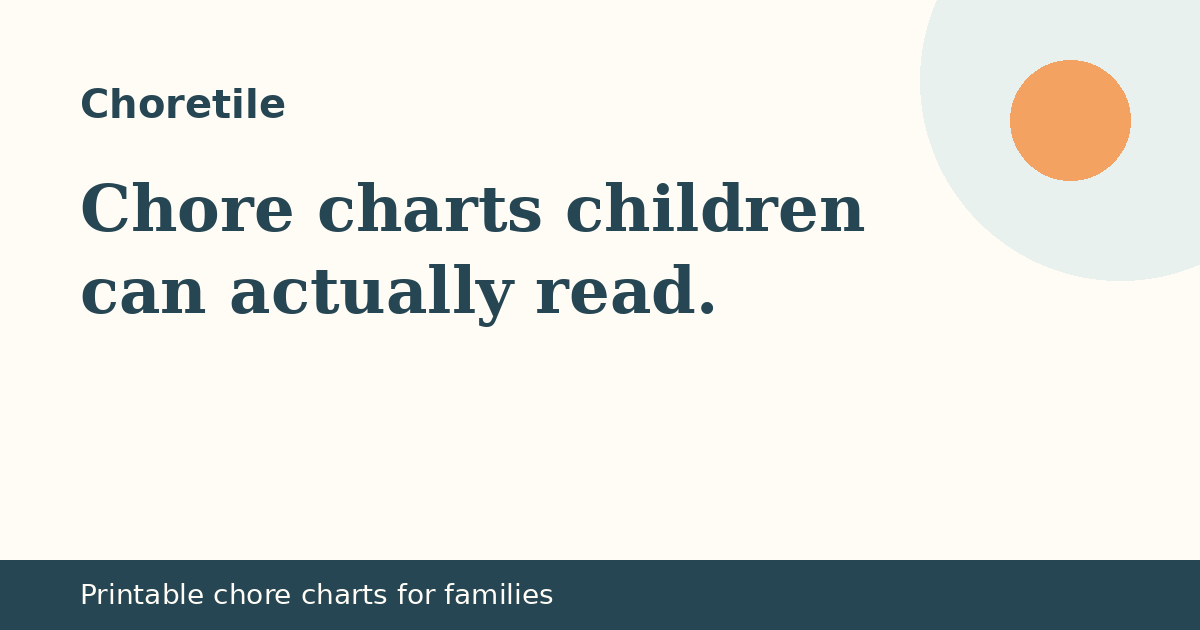
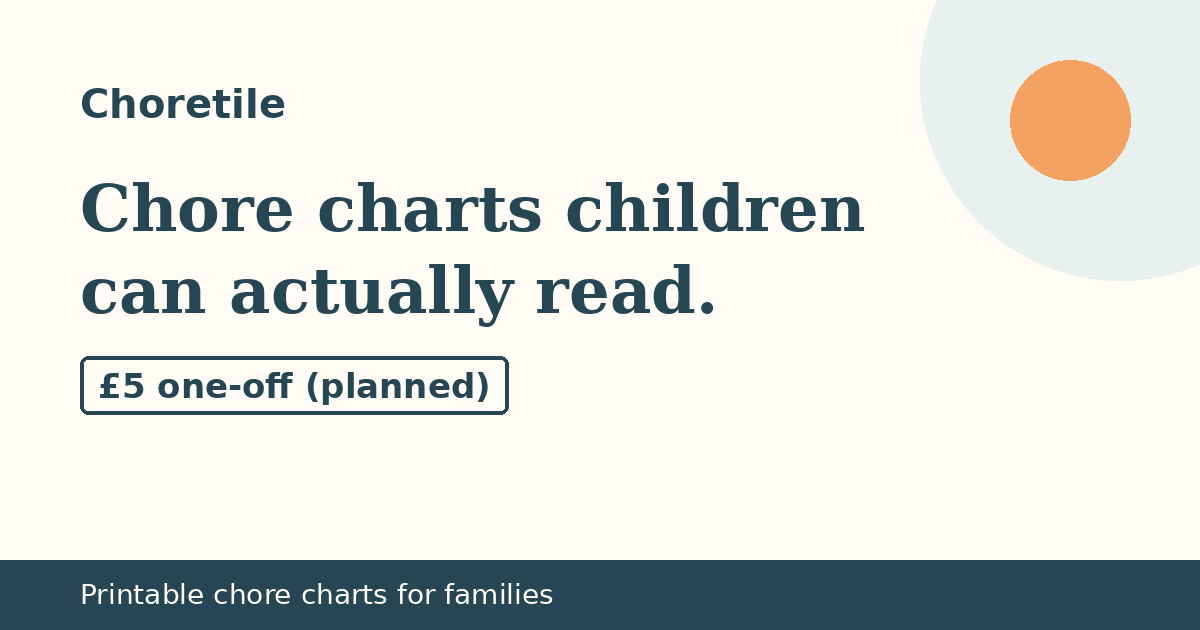
Publish site 2026-10-21 08:27 BST

Changed region(s): [[0.0617, 0.5429, 0.4317, 0.6635]]

diff --git a/index.html b/index.html
@@ -3,7 +3,7 @@
 <head>
 <meta charset="utf-8">
 <meta name="viewport" content="width=device-width, initial-scale=1">
-<meta http-equiv="Content-Security-Policy" content="default-src 'self'; img-src 'self' data: https://localreplyloop.goatcounter.com; style-src 'self'; script-src 'self'; font-src 'self'; connect-src 'self' https://formsubmit.co; form-action 'self'; base-uri 'self'; object-src 'none'">
+<meta http-equiv="Content-Security-Policy" content="default-src 'self'; img-src 'self' data: https://localreplyloop.goatcounter.com; style-src 'self'; script-src 'self'; font-src 'self'; connect-src 'self'; form-action 'self'; base-uri 'self'; object-src 'none'">
 <meta name="referrer" content="strict-origin-when-cross-origin">
 <title>Choretile: Chore charts children can actually read</title>
 <meta name="description" content="A set of printable chore charts with picture tiles for younger children, weekly sheets for older ones, and a blank tile template.">
@@ -21,21 +21,14 @@
 </head>
 <body>
 <a class="skip" href="#main">Skip to content</a>
-<header class="band"><div class="wrap top"><a class="brand" href="./"><svg viewBox="0 0 64 64" aria-hidden="true" width="34" height="34"><rect width="64" height="64" rx="4" fill="#F4A261"/><text x="32" y="43" text-anchor="middle" font-family="Georgia, serif" font-weight="700" font-size="30" fill="#111111">C</text><circle cx="50" cy="50" r="6" fill="#FFFCF5"/></svg>Choretile</a><nav aria-label="Primary"><a href="#how">How it works</a><a href="#faq">Questions</a><a href="#contact">Contact</a></nav></div><section class="hero"><div class="wrap"><div><span class="draft">Draft: not yet available. Enquiries welcome.</span><br><span class="eyebrow">Digital product · draft · Printable chore charts for families</span><h1>Chore charts children can actually read.</h1><p class="lede">Picture tiles for children who can&#x27;t read yet, simple weekly sheets for older ones, and blank tiles so you can add your own jobs. Print at home on A4.</p><div class="ctas"><a class="btn" href="#contact" data-cta="hero">Tell me when it&#x27;s ready</a><a class="btn ghost" href="#faq" data-cta="hero-secondary">Questions</a></div></div><div class="art"><svg viewBox="0 0 400 400" role="img" aria-label="Decorative pattern" class="motif" preserveAspectRatio="xMidYMid slice"><rect x="0" y="40" width="30" height="240" rx="15" fill="#E9F1EE"/><rect x="46" y="100" width="30" height="220" rx="15" fill="#FFFCF5"/><rect x="92" y="130" width="30" height="200" rx="15" fill="#F4A261"/><rect x="138" y="160" width="30" height="260" rx="15" fill="#FFFCF5"/><rect x="184" y="160" width="30" height="220" rx="15" fill="#E9F1EE"/><rect x="230" y="100" width="30" height="260" rx="15" fill="#FFFCF5"/><rect x="276" y="130" width="30" height="220" rx="15" fill="#F4A261"/><rect x="322" y="70" width="30" height="260" rx="15" fill="#FFFCF5"/><rect x="368" y="40" width="30" height="220" rx="15" fill="#E9F1EE"/></svg></div></div></section></header>
+<header class="band"><div class="wrap top"><a class="brand" href="./"><svg viewBox="0 0 64 64" aria-hidden="true" width="34" height="34"><rect width="64" height="64" rx="4" fill="#F4A261"/><text x="32" y="43" text-anchor="middle" font-family="Georgia, serif" font-weight="700" font-size="30" fill="#111111">C</text><circle cx="50" cy="50" r="6" fill="#FFFCF5"/></svg>Choretile</a><nav aria-label="Primary"><a href="#how">How it works</a><a href="#faq">Questions</a><a href="#contact">Contact</a></nav></div></header>
 <main id="main">
+<div class="band"><section class="hero"><div class="wrap"><div><span class="draft">Draft: not yet available. Enquiries welcome.</span><br><span class="eyebrow">Digital product · draft · Printable chore charts for families</span><h1>Chore charts children can actually read.</h1><p class="lede">Picture tiles for children who can&#x27;t read yet, simple weekly sheets for older ones, and blank tiles so you can add your own jobs. Print at home on A4.</p><div class="ctas"><a class="btn" href="#contact" data-cta="hero">Tell me when it&#x27;s ready</a><a class="btn ghost" href="#faq" data-cta="hero-secondary">Questions</a></div></div><figure class="art"><svg viewBox="0 0 400 400" aria-hidden="true" focusable="false" class="motif"><rect x="50" y="50" width="92" height="92" rx="14" fill="#FFFCF5"/><rect x="154" y="50" width="92" height="92" rx="14" fill="#E9F1EE"/><rect x="258" y="50" width="92" height="92" rx="14" fill="#FFFCF5"/><rect x="50" y="154" width="92" height="92" rx="14" fill="#E9F1EE"/><rect x="154" y="154" width="92" height="92" rx="14" fill="#FFFCF5"/><rect x="258" y="154" width="92" height="92" rx="14" fill="#E9F1EE"/><rect x="50" y="258" width="92" height="92" rx="14" fill="#FFFCF5"/><rect x="154" y="258" width="92" height="92" rx="14" fill="#E9F1EE"/><rect x="258" y="258" width="92" height="92" rx="14" fill="#FFFCF5"/><path d="M80 70 h26 v40 l20 20 -14 14 -32 -30z" fill="#F4A261"/><circle cx="200" cy="96" r="28" fill="#F4A261"/><circle cx="200" cy="96" r="14" fill="#FFFCF5"/><path d="M305 110 c-20 -30 0 -50 0 -50 c0 0 20 20 0 50z" fill="#F4A261"/><rect x="290" y="110" width="30" height="18" rx="4" fill="#F4A261"/><rect x="70" y="186" width="52" height="26" rx="6" fill="#F4A261"/><rect x="62" y="206" width="68" height="12" rx="5" fill="#264653"/></svg><figcaption class="fine">Illustrative</figcaption></figure></div></section></div>
 <section class="tint" id="how"><div class="wrap"><span class="eyebrow">How it works</span><h2>A set of printable chore charts with picture tiles for younger children, weekly sheets for older ones, and a blank tile template.</h2><div class="steps"><div class="step"><h3>Pick a chart</h3><p>Picture tiles or weekly sheets.</p></div><div class="step"><h3>Choose jobs</h3><p>From the tile set or make your own.</p></div><div class="step"><h3>Print and stick up</h3><p>A4, colour or black and white.</p></div></div></div></section>
 <section><div class="wrap"><span class="eyebrow">Who it is for</span><h2>For parents of children aged 4 to 12.</h2><div class="points"><div class="point"><h3>Picture tiles</h3><p>Readable for pre-readers.</p></div><div class="point"><h3>Blank tiles</h3><p>Add your family&#x27;s own jobs.</p></div><div class="point"><h3>Ink-friendly</h3><p>Black-and-white version included.</p></div></div></div></section>
-<section class="tint" id="price"><div class="wrap"><span class="eyebrow">Planned price</span><div class="pricebox"><p class="price">£5 one-off (planned)</p><p>This product is a draft and is not on sale yet. Nothing can be bought on this website. Register interest and we&#x27;ll email you when it&#x27;s ready.</p></div></div></section>
+<section class="tint" id="price"><div class="wrap"><span class="eyebrow">Planned price</span><div class="pricebox"><p class="price">£5 one-off (planned)</p><p>This product is a draft and is not on sale yet. Nothing can be bought on this website. You can register interest; we can’t promise a reply or a date yet.</p></div></div></section>
 <section id="faq"><div class="wrap"><span class="eyebrow">Questions</span><h2>Common questions</h2><details><summary>Is it on sale now?</summary><p>Not yet. Choretile is a draft product. Ask to hear when it&#x27;s ready.</p></details><details><summary>Does it include rewards?</summary><p>There&#x27;s a space for whatever your family agrees. No points system you have to follow.</p></details><details><summary>What paper size?</summary><p>A4.</p></details><p class="fine" style="margin-top:18px">Choretile is a set of printables. It does not offer parenting advice.</p></div></section>
-<section class="tint" id="contact"><div class="wrap contact-grid"><div><span class="eyebrow">Contact</span><h2>Register interest</h2><p>Choretile is new and run by one person. Every message is read and answered by email, usually within two working days.</p><p>Email: <a href="mailto:localreply+choretile@agentmail.to">localreply+choretile@agentmail.to</a></p></div><form class="form" data-contact data-formsubmit="localreply+choretile@agentmail.to" data-email="localreply+choretile@agentmail.to" data-subject="Choretile enquiry" novalidate>
-<div><label for="f-name">Your name</label><input id="f-name" name="name" autocomplete="name" required></div>
-<div><label for="f-email">Email</label><input id="f-email" name="email" type="email" autocomplete="email" required></div>
-<div><label for="f-plan">About</label><select id="f-plan" name="plan"><option value="Tell me when it&#x27;s ready">Tell me when it&#x27;s ready</option><option value="I have a question">I have a question</option></select></div>
-<div><label for="f-message">Message</label><textarea id="f-message" name="message"></textarea></div>
-<p class="hint">Your message goes to our inbox through FormSubmit (formsubmit.co), our form-delivery provider. If that fails, your own email app opens instead. See our <a href="privacy.html">privacy notice</a>.</p>
-<button class="btn" type="submit">Tell me when it&#x27;s ready</button>
-<p class="form-status" role="status" aria-live="polite"></p>
-</form></div></section>
+<section class="tint" id="contact"><div class="wrap contact-grid"><div><span class="eyebrow">Contact</span><h2>Register interest</h2><p>Choretile is new and run by one person. Messages go to our inbox. We can’t promise a reply or a timeframe yet.</p><p>Please don&#x27;t send us a child&#x27;s name, photo or personal details by email.</p><p>Email: <a href="mailto:localreply+choretile@agentmail.to">localreply+choretile@agentmail.to</a></p></div><div class="form contact-mail"><p><a class="btn" href="mailto:localreply+choretile@agentmail.to?subject=%5BChoretile%5D%20Enquiry" data-cta="enquire">Email Choretile</a></p><p class="hint">This opens your own email app. Nothing is sent through this website. See our <a href="privacy.html">privacy notice</a>.</p></div></div></section>
 </main><footer><div class="wrap"><p>Operated by a UK sole trader trading as Choretile. Contact: localreply+choretile@agentmail.to. Postal address available on written request.</p>
 <p><a href="privacy.html">Privacy</a><a href="terms.html">Terms</a><a href="./#contact">Contact</a></p>
 <p class="fine">Choretile is a set of printables. It does not offer parenting advice.</p></div></footer>

diff --git a/assets/site.css b/assets/site.css
@@ -1,4 +1,4 @@
-:root{--ink:#264653;--paper:#FFFCF5;--acc:#F4A261;--acc-text:#A7500C;--on-acc:#264653;--soft:#E9F1EE;--on-ink:#FFFCF5;--r:0px;--br:999px;--head:Georgia, 'Times New Roman', serif;--body:system-ui, -apple-system, 'Segoe UI', Roboto, sans-serif}
+:root{--ink:#264653;--paper:#FFFCF5;--acc:#F4A261;--acc-text:#A8510B;--on-acc:#264653;--acc-btn:#F4A261;--soft:#E9F1EE;--on-ink:#FFFCF5;--r:0px;--br:999px;--head:Georgia, 'Times New Roman', serif;--body:system-ui, -apple-system, 'Segoe UI', Roboto, sans-serif}
 *,*::before,*::after{box-sizing:border-box}html{scroll-behavior:smooth}@media (prefers-reduced-motion:reduce){html{scroll-behavior:auto}*{transition:none!important}}
 body{margin:0;font-family:var(--body);color:var(--ink);background:var(--paper);line-height:1.6;font-size:17px;-webkit-font-smoothing:antialiased}
 h1,h2,h3{font-family:var(--head);line-height:1.15;margin:0 0 .5em;letter-spacing:-.01em}h1{font-size:clamp(2.1rem,5vw,3.6rem)}h2{font-size:clamp(1.5rem,3vw,2.2rem)}h3{font-size:1.15rem}
@@ -7,11 +7,11 @@ p{margin:0 0 1em}a{color:var(--ink);text-decoration-color:var(--acc);text-underl
 :focus-visible{outline:3px solid var(--acc);outline-offset:2px}
 .top{display:flex;align-items:center;justify-content:space-between;padding:18px 0;gap:16px}.brand{display:flex;align-items:center;gap:10px;font-family:var(--head);font-weight:700;font-size:1.25rem;text-decoration:none}
 .top nav a{margin-left:18px;font-size:.95rem;text-decoration:none}.top nav a:hover{text-decoration:underline}
-.btn{display:inline-block;background:var(--acc);color:var(--on-acc);padding:13px 22px;border-radius:var(--br);font-weight:600;text-decoration:none;border:2px solid var(--acc);cursor:pointer;font:inherit;font-weight:600}
-.btn:hover{filter:brightness(.94)}.btn.ghost{background:transparent;color:var(--ink);border-color:var(--ink)}
+.btn{display:inline-block;background:var(--acc-btn);color:var(--on-acc);padding:13px 22px;border-radius:var(--br);font-weight:600;text-decoration:none;border:2px solid var(--acc-btn);cursor:pointer;font:inherit;font-weight:600}
+.btn:hover{filter:none;box-shadow:inset 0 0 0 2px currentColor}.btn.ghost{background:transparent;color:var(--ink);border-color:var(--ink)}
 .eyebrow{display:inline-block;font-size:.8rem;letter-spacing:.12em;text-transform:uppercase;font-weight:600;color:var(--acc-text);margin-bottom:12px}
 .hero{padding:48px 0 64px}.hero .lede{font-size:1.15rem;max-width:40em}.ctas{display:flex;gap:12px;flex-wrap:wrap;margin-top:22px}
-.motif{width:100%;height:auto;max-width:420px;display:block}
+.motif{width:100%;height:auto;max-width:420px;display:block}.art{margin:0}
 .draft{display:inline-block;background:var(--soft);border:1px dashed var(--ink);padding:3px 10px;border-radius:999px;font-size:.82rem;font-weight:600;margin-bottom:14px}
 section{padding:56px 0}.tint{background:var(--soft)}
 .steps{display:grid;grid-template-columns:repeat(auto-fit,minmax(220px,1fr));gap:22px;counter-reset:s}
@@ -22,11 +22,11 @@ section{padding:56px 0}.tint{background:var(--soft)}
 details{border-bottom:1px solid color-mix(in srgb,var(--ink) 18%,transparent);padding:14px 0}summary{cursor:pointer;font-weight:600}details p{margin-top:10px}
 .form{display:grid;gap:14px;max-width:620px}.form label{font-weight:600;font-size:.95rem;display:block;margin-bottom:4px}
 .form input,.form textarea,.form select{width:100%;padding:12px;border:1.5px solid color-mix(in srgb,var(--ink) 40%,transparent);border-radius:calc(var(--r)/2);font:inherit;background:#fff;color:#111}
-.form textarea{min-height:120px}.hint,.fine{font-size:.88rem;opacity:.85}.form-status{font-weight:600}
-.contact-grid{display:grid;grid-template-columns:1fr 1.2fr;gap:40px}@media(max-width:800px){.contact-grid{grid-template-columns:1fr}.top nav{display:none}}
+.form textarea{min-height:120px}.hint,.fine{font-size:.88rem}.form-status{font-weight:600}
+.contact-grid{display:grid;grid-template-columns:1fr 1.2fr;gap:40px}@media(max-width:800px){.contact-grid{grid-template-columns:1fr}.top nav a:not([href="#contact"]){display:none}.top nav a{margin-left:0;padding:10px 0;font-weight:600}}
 footer{padding:36px 0 48px;font-size:.9rem;border-top:1px solid color-mix(in srgb,var(--ink) 15%,transparent)}footer a{margin-right:14px}
 .tool{background:var(--paper);border:2px solid var(--ink);border-radius:var(--r);padding:26px;max-width:640px}.tool .row{display:grid;grid-template-columns:1fr 140px;gap:12px;align-items:center;margin-bottom:10px}
 .tool input[type=number]{padding:10px;border:1.5px solid var(--ink);border-radius:8px;font:inherit;width:100%}.result{margin-top:16px;padding:16px;background:var(--soft);border-radius:calc(var(--r)/2);min-height:3em}
 .check h3{margin-top:18px}.check label{display:flex;gap:10px;align-items:flex-start;padding:6px 0}.check input{width:20px;height:20px;accent-color:var(--acc)}
 .legal{max-width:760px}.legal h2{font-size:1.3rem;margin-top:1.6em}
-.band{background:var(--ink);color:var(--on-ink)}.band a{color:var(--on-ink)}.band .btn.ghost{color:var(--on-ink);border-color:var(--on-ink)}.band .eyebrow{color:#F4A261}.hero .wrap{display:grid;grid-template-columns:1.2fr .8fr;gap:40px;align-items:center}@media(max-width:800px){.hero .wrap{grid-template-columns:1fr}}.band .draft{color:var(--ink)}
+.band{background:var(--ink);color:var(--on-ink)}.band a{color:var(--on-ink)}.band .btn.ghost{color:var(--on-ink);border-color:var(--on-ink)}.band .btn:not(.ghost){color:var(--on-acc)}.band .eyebrow{color:#F4A261}.hero .wrap{display:grid;grid-template-columns:1.2fr .8fr;gap:40px;align-items:center}@media(max-width:800px){.hero .wrap{grid-template-columns:1fr}}.band .draft{color:var(--ink)}

diff --git a/privacy.html b/privacy.html
@@ -3,7 +3,7 @@
 <head>
 <meta charset="utf-8">
 <meta name="viewport" content="width=device-width, initial-scale=1">
-<meta http-equiv="Content-Security-Policy" content="default-src 'self'; img-src 'self' data: https://localreplyloop.goatcounter.com; style-src 'self'; script-src 'self'; font-src 'self'; connect-src 'self' https://formsubmit.co; form-action 'self'; base-uri 'self'; object-src 'none'">
+<meta http-equiv="Content-Security-Policy" content="default-src 'self'; img-src 'self' data: https://localreplyloop.goatcounter.com; style-src 'self'; script-src 'self'; font-src 'self'; connect-src 'self'; form-action 'self'; base-uri 'self'; object-src 'none'">
 <meta name="referrer" content="strict-origin-when-cross-origin">
 <title>Privacy notice | Choretile</title>
 <meta name="description" content="Privacy notice for Choretile.">
@@ -21,13 +21,13 @@
 </head>
 <body>
 <a class="skip" href="#main">Skip to content</a>
-<header><div class="wrap top"><a class="brand" href="./"><svg viewBox="0 0 64 64" aria-hidden="true" width="34" height="34"><rect width="64" height="64" rx="4" fill="#264653"/><text x="32" y="43" text-anchor="middle" font-family="Georgia, serif" font-weight="700" font-size="30" fill="#FFFCF5">C</text><circle cx="50" cy="50" r="6" fill="#F4A261"/></svg>Choretile</a><nav aria-label="Primary"><a href="#how">How it works</a><a href="#faq">Questions</a><a href="#contact">Contact</a></nav></div></header><main id="main"><section><div class="wrap legal"><h1>Privacy notice</h1><p class="fine">Last updated 19 October 2026</p>
+<header><div class="wrap top"><a class="brand" href="./"><svg viewBox="0 0 64 64" aria-hidden="true" width="34" height="34"><rect width="64" height="64" rx="4" fill="#264653"/><text x="32" y="43" text-anchor="middle" font-family="Georgia, serif" font-weight="700" font-size="30" fill="#FFFCF5">C</text><circle cx="50" cy="50" r="6" fill="#F4A261"/></svg>Choretile</a><nav aria-label="Primary"><a href="#how">How it works</a><a href="#faq">Questions</a><a href="#contact">Contact</a></nav></div></header><main id="main"><section><div class="wrap legal"><h1>Privacy notice</h1><p class="fine">Last updated 20 October 2026</p>
 <p><span>Operated by a UK sole trader trading as Choretile. Contact: localreply+choretile@agentmail.to. Postal address available on written request.</span> We are the controller for the personal data described here. For anything in this notice, email <a href="mailto:localreply+choretile@agentmail.to">localreply+choretile@agentmail.to</a> with “Choretile” in the subject line.</p>
-<h2>What we collect</h2><p>If you use the form or email us, we receive your name, email address, anything you write in your message and, if you give it, your postcode or town. We use it only to reply to you and, if you ask for it, to deal with your enquiry.</p>
+<h2>What we collect</h2><p>If you email us, we receive your name, email address, anything you write in your message and, if you give it, your postcode or town. We use it only to reply to you and, if you ask for it, to deal with your enquiry.</p>
 <h2>Lawful basis</h2><p>Replying to an enquiry you send us is in our legitimate interests, or steps taken at your request before any agreement (UK GDPR Article 6(1)(f) and 6(1)(b)).</p>
-<h2>Who processes it for us</h2><p>FormSubmit (formsubmit.co) delivers form messages to our inbox. AgentMail (agentmail.to) hosts the inbox. GitHub Pages hosts this website and may log technical data such as IP addresses for security. Some of these providers process data outside the UK under their own safeguards.</p>
+<h2>Who processes it for us</h2><p>AgentMail (agentmail.to) hosts our inbox. GitHub Pages hosts this website and may log technical data such as IP addresses for security. Some of these providers process data outside the UK under their own safeguards.</p>
 <h2>Cookies and analytics</h2><p>We set no cookies. We count page views with GoatCounter, which records the page, referrer and screen size but no cookies and no personal profile. It does not run if your browser sends Do Not Track or Global Privacy Control.</p>
-<h2>How long we keep it</h2><p>We keep enquiry emails for up to 12 months after our last contact, unless you become a customer, in which case we keep records as the law requires.</p>
+<h2>How long we keep it</h2><p>We delete enquiry and order data 30 days after our last contact or after delivery. We keep only the basic order record that tax law requires.</p>
 <h2>Your rights</h2><p>You can ask for a copy of your data, ask us to correct or delete it, or object to how we use it, by emailing <a href="mailto:localreply+choretile@agentmail.to">localreply+choretile@agentmail.to</a>. You can complain to the Information Commissioner's Office (ico.org.uk).</p></div></section></main><footer><div class="wrap"><p>Operated by a UK sole trader trading as Choretile. Contact: localreply+choretile@agentmail.to. Postal address available on written request.</p>
 <p><a href="privacy.html">Privacy</a><a href="terms.html">Terms</a><a href="./#contact">Contact</a></p>
 <p class="fine">Choretile is a set of printables. It does not offer parenting advice.</p></div></footer>

diff --git a/_shared/kit.js b/_shared/kit.js
@@ -69,24 +69,8 @@
     form.addEventListener("submit", function (e) {
       e.preventDefault();
       if (!form.reportValidity()) return;
-      // 2026-10-14: if data-formsubmit is set, deliver via FormSubmit.co straight to the brand inbox; mailto stays as fallback.
-      var fsTok = form.getAttribute("data-formsubmit");
-      if (fsTok && !form.__fsFallback && window.fetch) {
-        var fd = new FormData(form), payload = {}, st = form.querySelector("[role=status]");
-        fd.forEach(function (v, k) { if (k !== "consent") payload[k] = String(v); });
-        payload._subject = (form.getAttribute("data-subject") || "Enquiry") + (payload.business ? " — " + payload.business : "");
-        if (payload.email) payload._replyto = payload.email;
-        payload._captcha = "false"; payload._template = "table";
-        fetch("https://formsubmit.co/ajax/" + fsTok, { method: "POST", headers: { "Content-Type": "application/json", "Accept": "application/json" }, body: JSON.stringify(payload) })
-          .then(function (r) { return r.json(); })
-          .then(function (j) {
-            if (String(j.success) !== "true") throw new Error("fs");
-            if (st) { st.textContent = "Thanks" + (payload.name ? ", " + payload.name.trim().split(" ")[0] : "") + " — your message has been sent. We reply by email."; st.classList.add("is-visible"); }
-            track("contact_sent", { plan: payload.plan || null }); form.reset();
-          })
-          .catch(function () { form.__fsFallback = true; if (st) { st.textContent = "Sending didn't work — opening your email app instead."; st.classList.add("is-visible"); } form.requestSubmit ? form.requestSubmit() : form.dispatchEvent(new Event("submit", { cancelable: true })); });
-        return;
-      }
+      // The form only composes an email
+      // in the visitor's own mail app; nothing is sent through any third-party form processor.
       var to = form.getAttribute("data-email") || cfg.contactEmail;
       var data = new FormData(form);
       var name = (data.get("name") || "").toString().trim();

diff --git a/_shared/kit.css b/_shared/kit.css
@@ -73,6 +73,7 @@ p { margin: 0; }
 .mobile-nav.is-open { display: block; }
 .mobile-nav a { display: flex; align-items: center; min-height: 52px; padding: 0 1.25rem; color: var(--text); text-decoration: none; font-weight: 500; border-bottom: 1px solid var(--line); }
 .mobile-nav .btn { margin: 1rem 1.25rem 1.25rem; display: flex; }
+.mobile-nav .btn--primary, .mobile-nav .btn--primary:hover { color: #fff; }
 @media (min-width: 60rem) {
   .nav { display: flex; }
   .site-header .header-cta { display: inline-flex; margin-left: .75rem; }
@@ -329,3 +330,8 @@ html[data-paused="true"] [data-cta="checkout"] { pointer-events: none; opacity: 
 @media (min-width: 60rem) { .pricing.pricing--single { grid-template-columns: 1fr; } }
 .tier-more { max-width: 64rem; margin: 1.25rem auto 0; text-align: center; color: var(--muted); font-size: .9375rem; line-height: 1.6; }
 .tier-more a { font-weight: 600; white-space: nowrap; }
+
+.site-header .header-link { display: inline-flex; color: var(--ink); font-weight: 600; text-decoration: underline; text-underline-offset: .2em; min-height: 44px; align-items: center; padding: 0 .25rem; }
+@media (max-width: 59.99rem) { .site-header .header-link { display: none; } }
+.btn-row .text-link { display: inline-flex; align-items: center; min-height: 48px; padding: 0 .25rem; color: var(--ink); font-weight: 600; text-decoration: underline; text-underline-offset: .2em; }
+.btn-row .text-link:hover, .site-header .header-link:hover { color: var(--accent-strong); }

diff --git a/404.html b/404.html
@@ -3,7 +3,7 @@
 <head>
 <meta charset="utf-8">
 <meta name="viewport" content="width=device-width, initial-scale=1">
-<meta http-equiv="Content-Security-Policy" content="default-src 'self'; img-src 'self' data: https://localreplyloop.goatcounter.com; style-src 'self'; script-src 'self'; font-src 'self'; connect-src 'self' https://formsubmit.co; form-action 'self'; base-uri 'self'; object-src 'none'">
+<meta http-equiv="Content-Security-Policy" content="default-src 'self'; img-src 'self' data: https://localreplyloop.goatcounter.com; style-src 'self'; script-src 'self'; font-src 'self'; connect-src 'self'; form-action 'self'; base-uri 'self'; object-src 'none'">
 <meta name="referrer" content="strict-origin-when-cross-origin">
 <title>Page not found | Choretile</title>
 <meta name="description" content="Page not found for Choretile.">

diff --git a/terms.html b/terms.html
@@ -3,7 +3,7 @@
 <head>
 <meta charset="utf-8">
 <meta name="viewport" content="width=device-width, initial-scale=1">
-<meta http-equiv="Content-Security-Policy" content="default-src 'self'; img-src 'self' data: https://localreplyloop.goatcounter.com; style-src 'self'; script-src 'self'; font-src 'self'; connect-src 'self' https://formsubmit.co; form-action 'self'; base-uri 'self'; object-src 'none'">
+<meta http-equiv="Content-Security-Policy" content="default-src 'self'; img-src 'self' data: https://localreplyloop.goatcounter.com; style-src 'self'; script-src 'self'; font-src 'self'; connect-src 'self'; form-action 'self'; base-uri 'self'; object-src 'none'">
 <meta name="referrer" content="strict-origin-when-cross-origin">
 <title>Terms of use | Choretile</title>
 <meta name="description" content="Terms of use for Choretile.">
